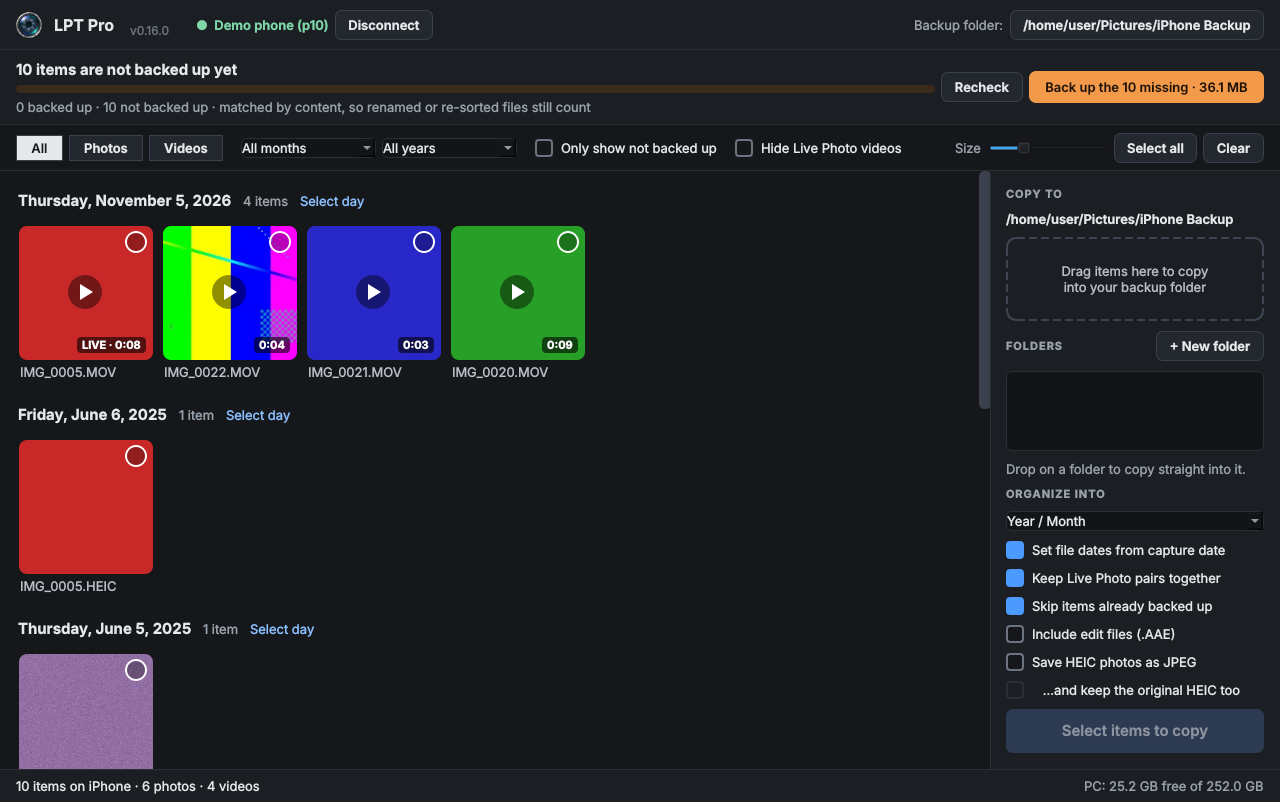
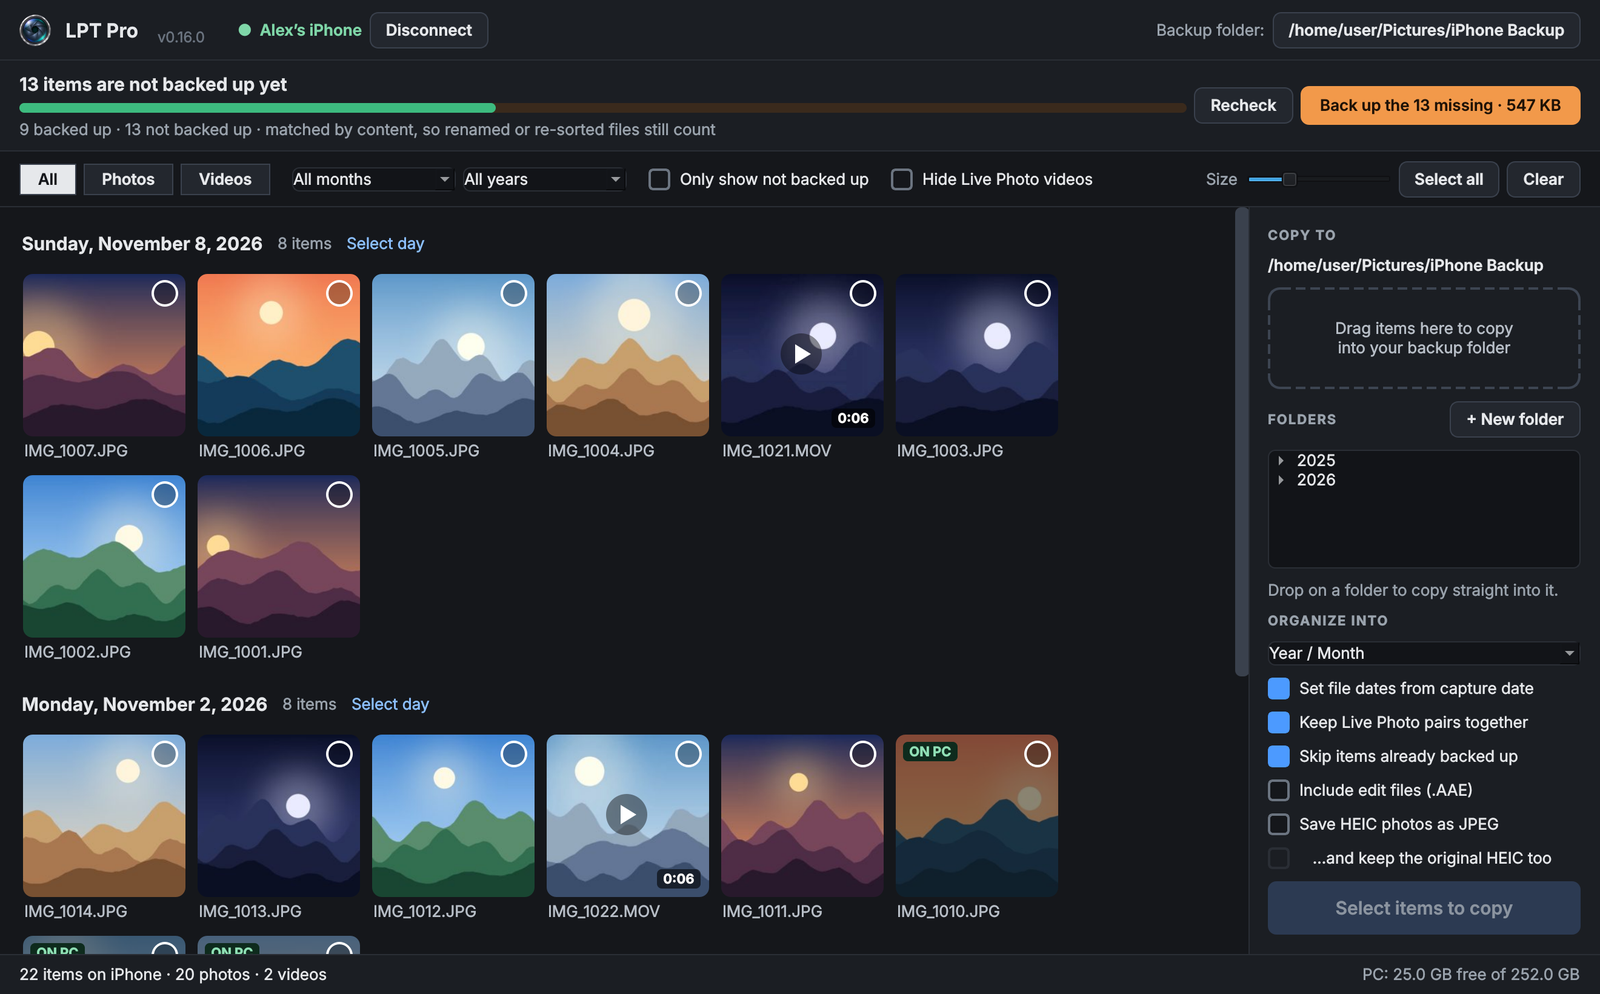
Screenshot on the front page

diff --git a/README.md b/README.md
@@ -10,6 +10,8 @@ Free and open source, for Windows and Linux.</p>
   <a href="https://github.com/lptpro/lpt-pro/releases/latest/download/LPT-Pro-Linux.deb"><b>⬇ Download for Linux</b></a>
 </p>
 
+<p align="center"><img src="docs/screenshot-main.png" width="900" alt="LPT Pro showing the photos on an iPhone, which ones are already on the PC, and the Back up what's missing button"></p>
+
 ---
 
 ## What it does
